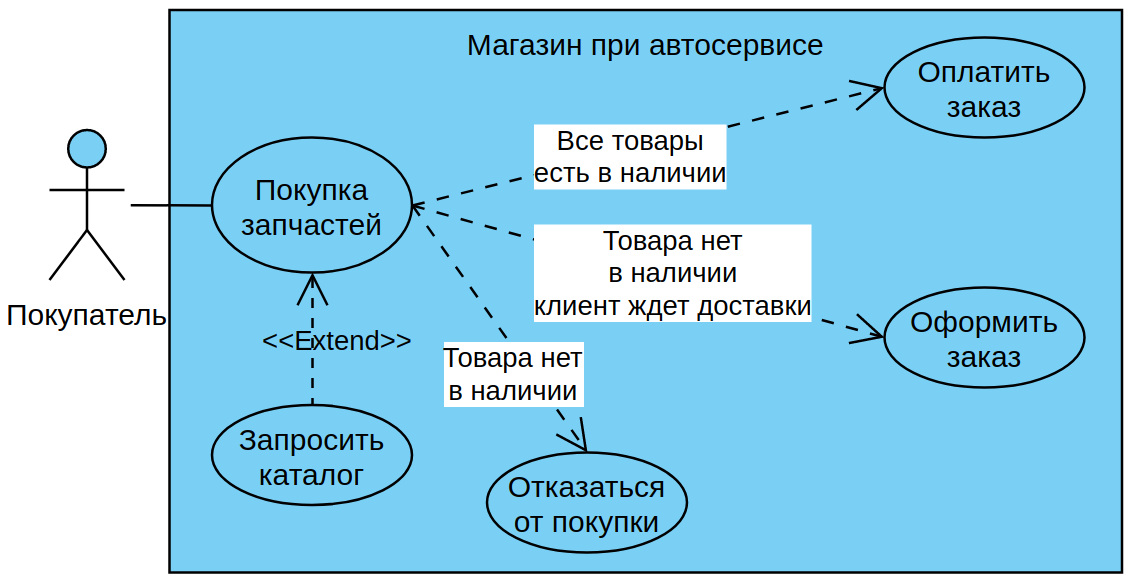
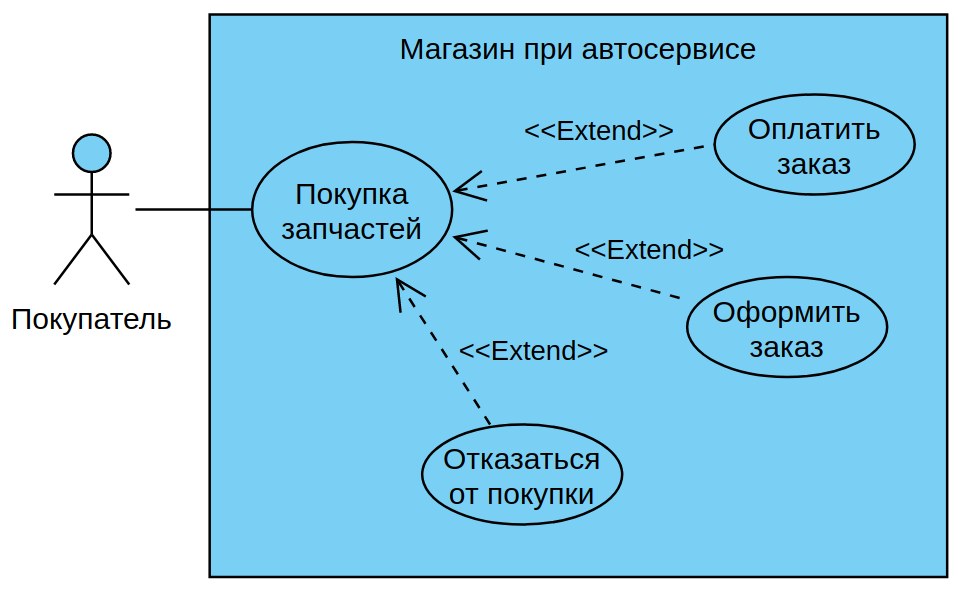
правки

diff --git a/articles/demo_session1.md b/articles/demo_session1.md
@@ -33,16 +33,15 @@
 
 **Прецедент 1: Покупка автозапчастей**
 
-Примерный сценарий
+Из всего, что написано в теории, нужно запомнить только то, что "прецедент" это атомарная функция, которая должна закончится **значимым** результатом. И не путаться в вариантах стрелок: "Include" ведет наружу к другому прецеденту, который является частью родительского, но выделен отдельно, если используется в других прецедентах. "Extend" ведет внутрь и либо вносит дополнительные, но не обязательные, опции, либо, как в нашем случае, приводит к разным вариантам завершения прецедента. 
 
-1. Покупатель **выбирает** товары
-2. При отсутствии товара в магазине **просматривает** каталог (система предоставляет информацию о наличии товаров)
-3. Оформляет заказ
-4. При наличии всех товаров оплачивает сразу
-5. При отсутсвии каких-то позиций оставляет заказ или отказывается от покупки 
+>В "классичеком" UseCase не должно быть ветвлений, поэтому я сомневаюсь в своей диаграмме, возможно тут должно быть три отдельных прецедента.
+
+Для покупки автозапчастей я вижу три варианта: покупка того что есть в наличии, заказ того чего нет и отказ от покупки.
 
 Реализация
 
 ![](../img/demo01.png)
 
->Тут я использовал тип стрелки не описанный в лекции - пунктирная с текстом. Это единственная стрелка не связанная с "extend" и "include", которая есть в стандарте. Хотя, возможно, тут надо было таки использовать "extend" и внешний блок комментария (в интернете все пишут как получится, поэтому навскидку не получилось разобраться). 
+
+>В инетах пишут, что границу системы можно не рисовать, т.к. особого смысла она не несет. Обязательно ее нужно рисовать только, если на одном листе несколько подсистем. Но думаю хуже от того что вы ее нарисуете не будет.
